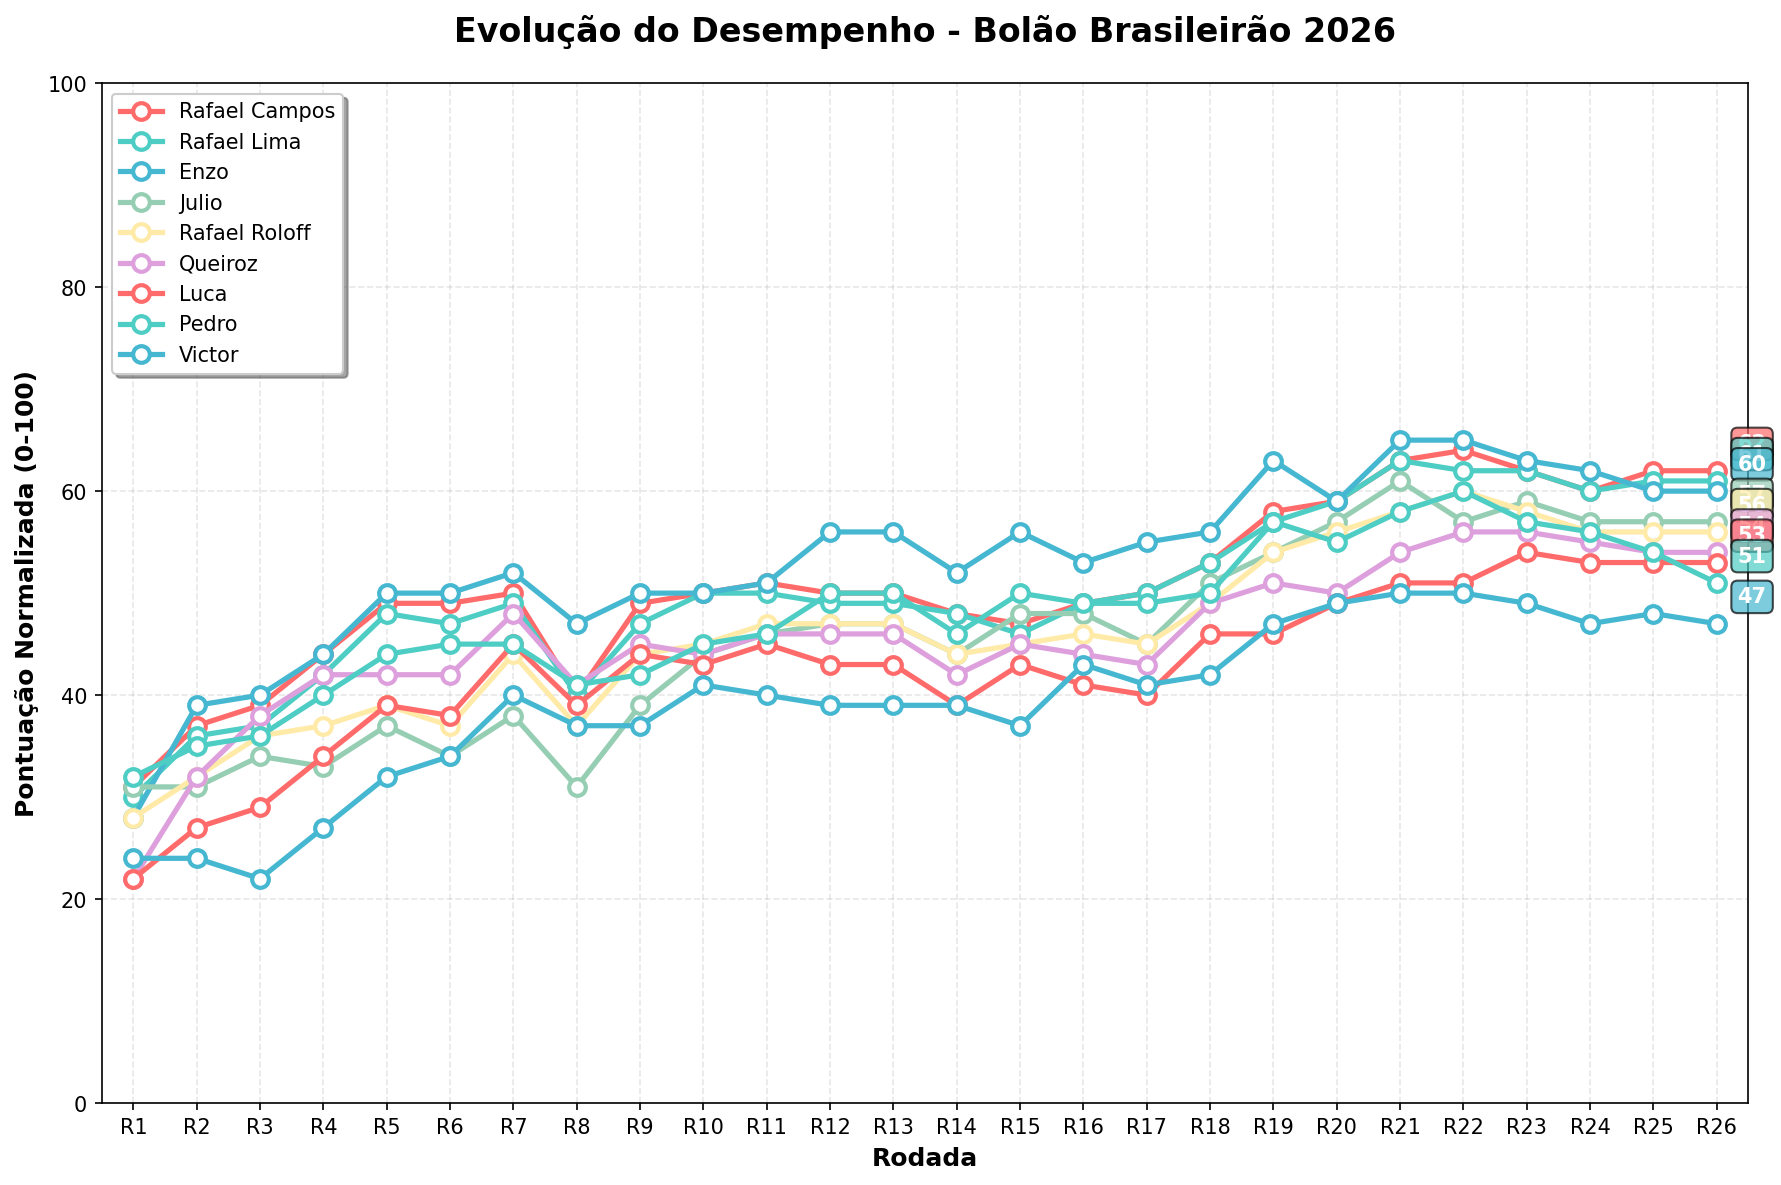
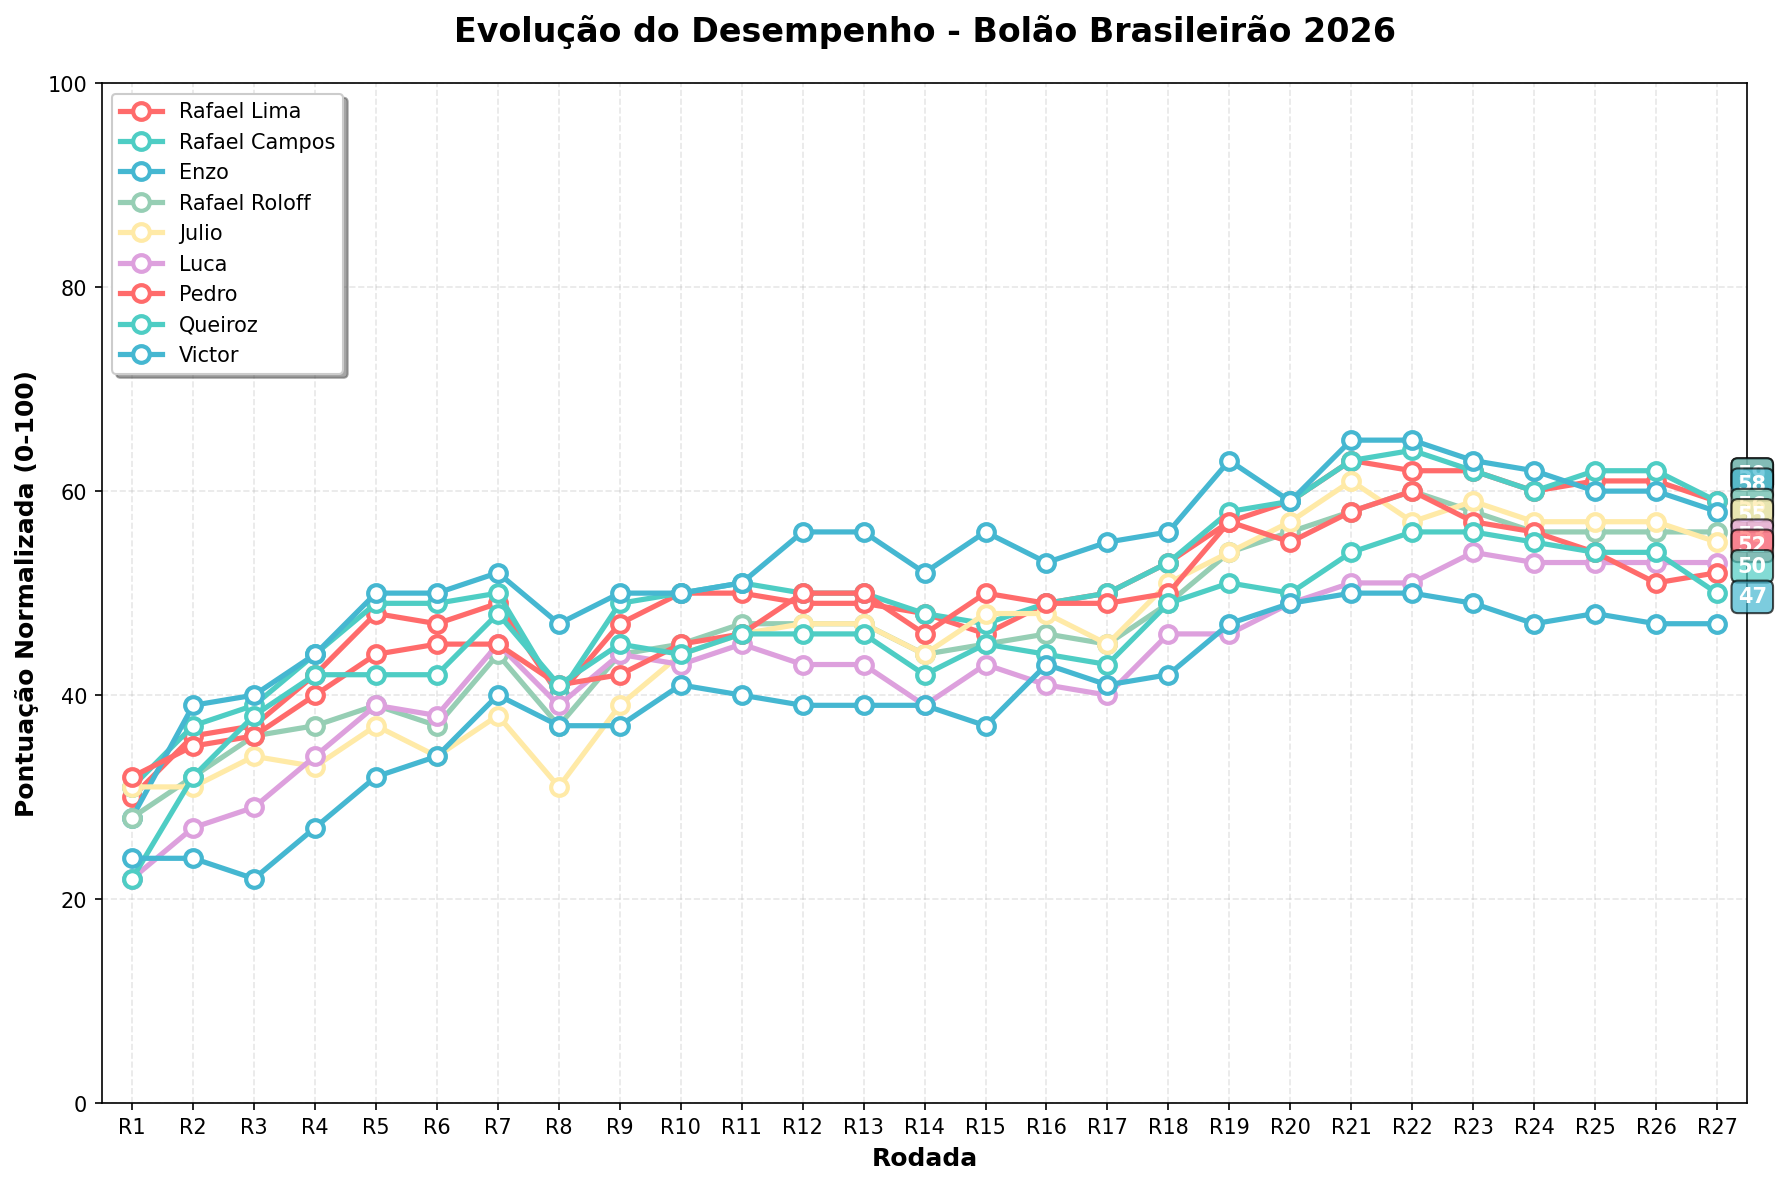
Atualizacao automatica - 13/09/2026 11:00:04,40

diff --git a/README.md b/README.md
@@ -2,71 +2,71 @@
 
 ## 🏆 Resultados Atuais
 
-**Última Atualização:** 2026-09-09 11:00:05
+**Última Atualização:** 2026-09-13 11:00:03
 
-| Time | Real | Rafael Campos | Rafael Lima | Enzo | Julio | Rafael Roloff | Queiroz | Luca | Pedro | Victor |
+| Time | Real | Rafael Lima | Rafael Campos | Enzo | Rafael Roloff | Julio | Luca | Pedro | Queiroz | Victor |
 |------|------|------|------|------|------|------|------|------|------|------|
-| Flamengo | 1 | 1°(20p) | 1°(20p) | 1°(20p) | 1°(20p) | 1°(20p) | 1°(20p) | 1°(20p) | 2°(19p) | 1°(20p) |
-| Palmeiras | 2 | 3°(19p) | 3°(19p) | 2°(20p) | 2°(20p) | 2°(20p) | 3°(19p) | 3°(19p) | 3°(19p) | 3°(19p) |
-| Atlético-PR | 3 | 17°(6p) | 17°(6p) | 17°(6p) | 17°(6p) | 17°(6p) | 15°(8p) | 17°(6p) | 18°(5p) | 13°(10p) |
-| Fluminense | 4 | 7°(17p) | 6°(18p) | 4°(20p) | 7°(17p) | 8°(16p) | 7°(17p) | 8°(16p) | 4°(20p) | 10°(14p) |
-| Bahia | 5 | 4°(19p) | 4°(19p) | 5°(20p) | 5°(20p) | 6°(19p) | 4°(19p) | 5°(20p) | 7°(18p) | 9°(16p) |
-| Cruzeiro | 6 | 2°(16p) | 2°(16p) | 3°(17p) | 3°(17p) | 3°(17p) | 2°(16p) | 2°(16p) | 1°(15p) | 7°(19p) |
-| Coritiba | 7 | 16°(11p) | 16°(11p) | 15°(12p) | 19°(8p) | 14°(13p) | 12°(15p) | 20°(7p) | 19°(8p) | 20°(7p) |
-| Atlético-MG | 8 | 5°(17p) | 5°(17p) | 12°(16p) | 4°(16p) | 4°(16p) | 9°(19p) | 4°(16p) | 13°(15p) | 2°(14p) |
-| Bragantino | 9 | 10°(19p) | 10°(19p) | 6°(17p) | 10°(19p) | 13°(16p) | 18°(11p) | 13°(16p) | 9°(20p) | 15°(14p) |
-| São Paulo | 10 | 12°(18p) | 14°(16p) | 16°(14p) | 15°(15p) | 16°(14p) | 17°(13p) | 14°(16p) | 15°(15p) | 16°(14p) |
-| Vitória | 11 | 18°(13p) | 18°(13p) | 18°(13p) | 16°(15p) | 18°(13p) | 19°(12p) | 18°(13p) | 17°(14p) | 17°(14p) |
-| Corinthians | 12 | 8°(16p) | 9°(17p) | 8°(16p) | 9°(17p) | 5°(13p) | 6°(14p) | 10°(18p) | 8°(16p) | 8°(16p) |
-| Santos | 13 | 13°(20p) | 12°(19p) | 11°(18p) | 12°(19p) | 9°(16p) | 13°(20p) | 7°(14p) | 11°(18p) | 11°(18p) |
-| Botafogo | 14 | 9°(15p) | 8°(14p) | 10°(16p) | 6°(12p) | 7°(13p) | 11°(17p) | 11°(17p) | 5°(11p) | 5°(11p) |
-| Grêmio | 15 | 6°(11p) | 7°(12p) | 7°(12p) | 18°(17p) | 12°(17p) | 5°(10p) | 6°(11p) | 6°(11p) | 4°(9p) |
-| Mirassol | 16 | 11°(15p) | 11°(15p) | 13°(17p) | 8°(12p) | 10°(14p) | 8°(12p) | 12°(16p) | 12°(16p) | 14°(18p) |
-| Vasco | 17 | 14°(17p) | 15°(18p) | 9°(12p) | 11°(14p) | 11°(14p) | 10°(13p) | 9°(12p) | 10°(13p) | 12°(15p) |
-| Internacional | 18 | 15°(17p) | 13°(15p) | 14°(16p) | 14°(16p) | 15°(17p) | 14°(16p) | 15°(17p) | 14°(16p) | 6°(8p) |
-| Remo | 19 | 20°(19p) | 20°(19p) | 20°(19p) | 13°(14p) | 20°(19p) | 16°(17p) | 16°(17p) | 16°(17p) | 19°(20p) |
-| Chapecoense | 20 | 19°(19p) | 19°(19p) | 19°(19p) | 20°(20p) | 19°(19p) | 20°(20p) | 19°(19p) | 20°(20p) | 18°(18p) |
-| **TOTAL** | | **327** | **325** | **323** | **317** | **315** | **311** | **309** | **306** | **297** |
+| Palmeiras | 1 | 3°(18p) | 3°(18p) | 2°(19p) | 2°(19p) | 2°(19p) | 3°(18p) | 3°(18p) | 3°(18p) | 3°(18p) |
+| Flamengo | 2 | 1°(19p) | 1°(19p) | 1°(19p) | 1°(19p) | 1°(19p) | 1°(19p) | 2°(20p) | 1°(19p) | 1°(19p) |
+| Atlético-PR | 3 | 17°(6p) | 17°(6p) | 17°(6p) | 17°(6p) | 17°(6p) | 17°(6p) | 18°(5p) | 15°(8p) | 13°(10p) |
+| Fluminense | 4 | 6°(18p) | 7°(17p) | 4°(20p) | 8°(16p) | 7°(17p) | 8°(16p) | 4°(20p) | 7°(17p) | 10°(14p) |
+| Bahia | 5 | 4°(19p) | 4°(19p) | 5°(20p) | 6°(19p) | 5°(20p) | 5°(20p) | 7°(18p) | 4°(19p) | 9°(16p) |
+| Cruzeiro | 6 | 2°(16p) | 2°(16p) | 3°(17p) | 3°(17p) | 3°(17p) | 2°(16p) | 1°(15p) | 2°(16p) | 7°(19p) |
+| Atlético-MG | 7 | 5°(18p) | 5°(18p) | 12°(15p) | 4°(17p) | 4°(17p) | 4°(17p) | 13°(14p) | 9°(18p) | 2°(15p) |
+| Coritiba | 8 | 16°(12p) | 16°(12p) | 15°(13p) | 14°(14p) | 19°(9p) | 20°(8p) | 19°(9p) | 12°(16p) | 20°(8p) |
+| Bragantino | 9 | 10°(19p) | 10°(19p) | 6°(17p) | 13°(16p) | 10°(19p) | 13°(16p) | 9°(20p) | 18°(11p) | 15°(14p) |
+| Santos | 10 | 12°(18p) | 13°(17p) | 11°(19p) | 9°(19p) | 12°(18p) | 7°(17p) | 11°(19p) | 13°(17p) | 11°(19p) |
+| São Paulo | 11 | 14°(17p) | 12°(19p) | 16°(15p) | 16°(15p) | 15°(16p) | 14°(17p) | 15°(16p) | 17°(14p) | 16°(15p) |
+| Vitória | 12 | 18°(14p) | 18°(14p) | 18°(14p) | 18°(14p) | 16°(16p) | 18°(14p) | 17°(15p) | 19°(13p) | 17°(15p) |
+| Corinthians | 13 | 9°(16p) | 8°(15p) | 8°(15p) | 5°(12p) | 9°(16p) | 10°(17p) | 8°(15p) | 6°(13p) | 8°(15p) |
+| Botafogo | 14 | 8°(14p) | 9°(15p) | 10°(16p) | 7°(13p) | 6°(12p) | 11°(17p) | 5°(11p) | 11°(17p) | 5°(11p) |
+| Grêmio | 15 | 7°(12p) | 6°(11p) | 7°(12p) | 12°(17p) | 18°(17p) | 6°(11p) | 6°(11p) | 5°(10p) | 4°(9p) |
+| Mirassol | 16 | 11°(15p) | 11°(15p) | 13°(17p) | 10°(14p) | 8°(12p) | 12°(16p) | 12°(16p) | 8°(12p) | 14°(18p) |
+| Vasco | 17 | 15°(18p) | 14°(17p) | 9°(12p) | 11°(14p) | 11°(14p) | 9°(12p) | 10°(13p) | 10°(13p) | 12°(15p) |
+| Internacional | 18 | 13°(15p) | 15°(17p) | 14°(16p) | 15°(17p) | 14°(16p) | 15°(17p) | 14°(16p) | 14°(16p) | 6°(8p) |
+| Remo | 19 | 20°(19p) | 20°(19p) | 20°(19p) | 20°(19p) | 13°(14p) | 16°(17p) | 16°(17p) | 16°(17p) | 19°(20p) |
+| Chapecoense | 20 | 19°(19p) | 19°(19p) | 19°(19p) | 19°(19p) | 20°(20p) | 19°(19p) | 20°(20p) | 20°(20p) | 18°(18p) |
+| **TOTAL** | | **322** | **322** | **320** | **316** | **314** | **310** | **308** | **304** | **296** |
 
 ### 🏅 Classificação Atual (pontuação normalizada 0-100)
 
-🥇 **Rafael Campos** (+3): 62 pontos<br>
-🥈 **Rafael Lima** (+3): 61 pontos<br>
-🥉 **Enzo** (+3): 60 pontos<br>
-4. **Julio** (+3): 57 pontos<br>
-5. **Rafael Roloff** (+3): 56 pontos<br>
-6. **Queiroz** (+3): 54 pontos<br>
-7. **Luca** (+3): 53 pontos<br>
-8. **Pedro**: 51 pontos<br>
-9. **Victor** (+3): 47 pontos<br>
+🥇 **Rafael Lima**: 59 pontos<br>
+🥈 **Rafael Campos**: 59 pontos<br>
+🥉 **Enzo**: 58 pontos<br>
+4. **Rafael Roloff**: 56 pontos<br>
+5. **Julio**: 55 pontos<br>
+6. **Luca**: 53 pontos<br>
+7. **Pedro**: 52 pontos<br>
+8. **Queiroz**: 50 pontos<br>
+9. **Victor**: 47 pontos<br>
 
 ### 📈 Histórico de Desempenho
 
 ![Gráfico de Performance](performance_chart.png)
 
-| Rodada | Rafael Campos | Rafael Lima | Enzo | Julio | Rafael Roloff | Queiroz | Luca | Pedro | Victor |
+| Rodada | Rafael Lima | Rafael Campos | Enzo | Rafael Roloff | Julio | Luca | Pedro | Queiroz | Victor |
 |-------|-------|-------|-------|-------|-------|-------|-------|-------|-------|
-| R17 | 50 | 50 | 55 | 45 | 45 | 43 | 40 | 49 | 41 |
-| R18 | 53 | 53 | 56 | 51 | 49 | 49 | 46 | 50 | 42 |
-| R19 | 58 | 57 | 63 | 54 | 54 | 51 | 46 | 57 | 47 |
-| R20 | 59 | 59 | 59 | 57 | 56 | 50 | 49 | 55 | 49 |
-| R21 | 63 | 63 | 65 | 61 | 58 | 54 | 51 | 58 | 50 |
-| R22 | 64 | 62 | 65 | 57 | 60 | 56 | 51 | 60 | 50 |
-| R23 | 62 | 62 | 63 | 59 | 58 | 56 | 54 | 57 | 49 |
-| R24 | 60 | 60 | 62 | 57 | 56 | 55 | 53 | 56 | 47 |
-| R25 | 62 | 61 | 60 | 57 | 56 | 54 | 53 | 54 | 48 |
-| R26 | 62 | 61 | 60 | 57 | 56 | 54 | 53 | 51 | 47 |
+| R18 | 53 | 53 | 56 | 49 | 51 | 46 | 50 | 49 | 42 |
+| R19 | 57 | 58 | 63 | 54 | 54 | 46 | 57 | 51 | 47 |
+| R20 | 59 | 59 | 59 | 56 | 57 | 49 | 55 | 50 | 49 |
+| R21 | 63 | 63 | 65 | 58 | 61 | 51 | 58 | 54 | 50 |
+| R22 | 62 | 64 | 65 | 60 | 57 | 51 | 60 | 56 | 50 |
+| R23 | 62 | 62 | 63 | 58 | 59 | 54 | 57 | 56 | 49 |
+| R24 | 60 | 60 | 62 | 56 | 57 | 53 | 56 | 55 | 47 |
+| R25 | 61 | 62 | 60 | 56 | 57 | 53 | 54 | 54 | 48 |
+| R26 | 61 | 62 | 60 | 56 | 57 | 53 | 51 | 54 | 47 |
+| R27 | 59 | 59 | 58 | 56 | 55 | 53 | 52 | 50 | 47 |
 
 **Tendência (últimas 2 medições):**
-- **Rafael Campos**: ➡ =0
-- **Rafael Lima**: ➡ =0
-- **Enzo**: ➡ =0
-- **Julio**: ➡ =0
+- **Rafael Lima**: 📉 -2
+- **Rafael Campos**: 📉 -3
+- **Enzo**: 📉 -2
 - **Rafael Roloff**: ➡ =0
-- **Queiroz**: ➡ =0
+- **Julio**: 📉 -2
 - **Luca**: ➡ =0
-- **Pedro**: 📉 -3
-- **Victor**: 📉 -1
+- **Pedro**: 📈 +1
+- **Queiroz**: 📉 -4
+- **Victor**: ➡ =0
 
 ## 🎯 Sistema de Pontuação
 
